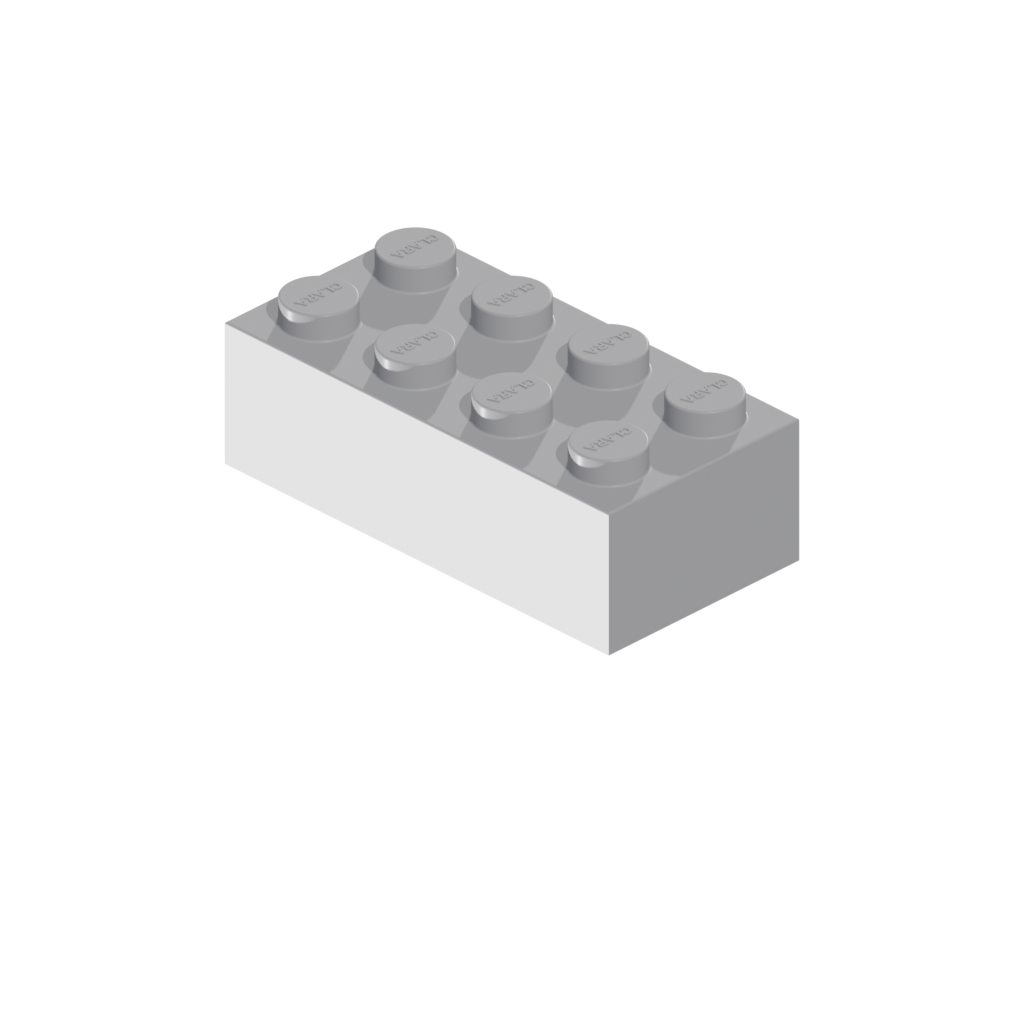
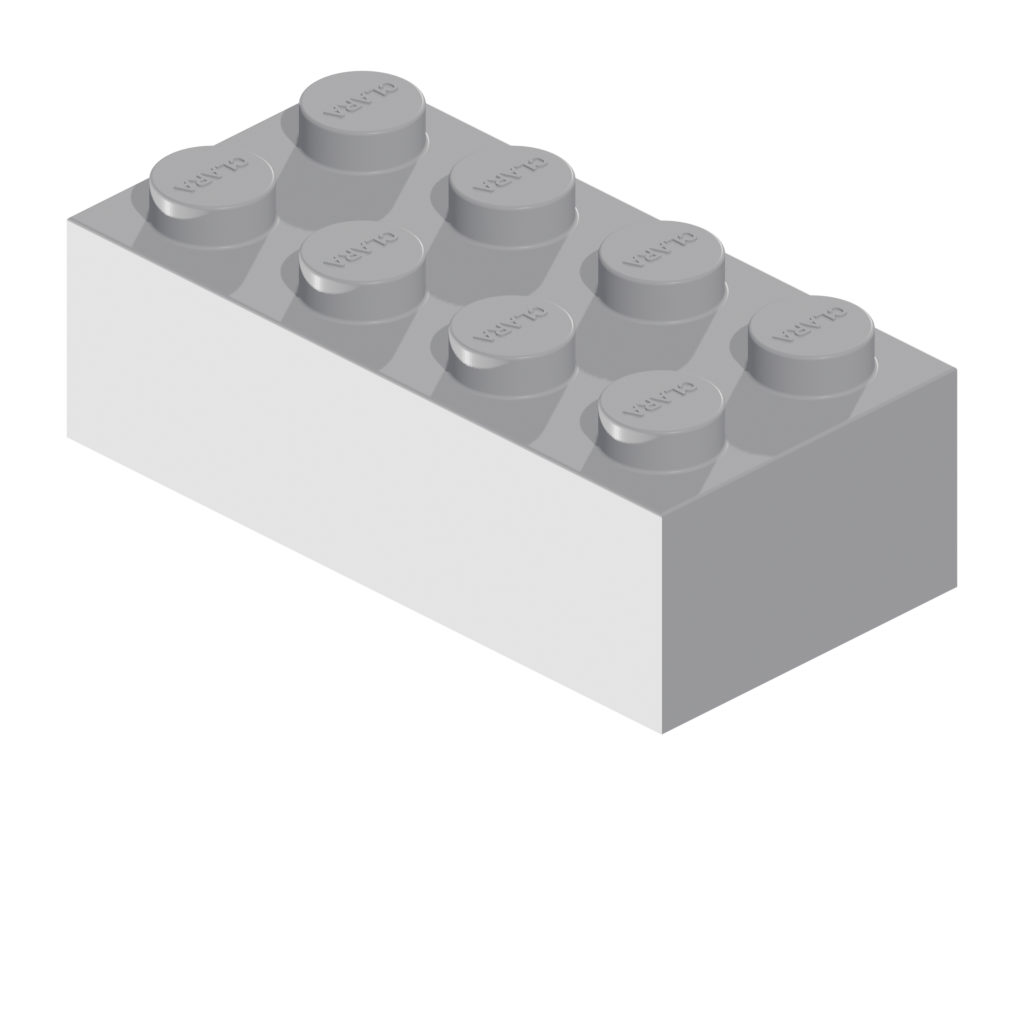
[C] Auto-fit camera to object bounds, eliminate whitespace in renders
ortho_scale now computed per-frame from projected bounding box instead
of hardcoded 60mm. Bricks fill the frame with 15% padding regardless
of size. Regenerated all README images.

Changed region(s): [[0.0625, 0.0625, 0.9375, 0.7188]]

diff --git a/render_preview.py b/render_preview.py
@@ -16,6 +16,7 @@ Output: 4 PNG files in output_dir:
 
 import bpy
 import math
+import mathutils
 import os
 import sys
 
@@ -152,7 +153,7 @@ def setup_camera():
     """
     cam_data = bpy.data.cameras.new(name="RenderCam")
     cam_data.type = "ORTHO"
-    cam_data.ortho_scale = 60  # covers ~60mm width — enough for a 2x4
+    # ortho_scale set per-frame by fit_ortho_to_object()
     cam_obj = bpy.data.objects.new("RenderCam", cam_data)
     bpy.context.scene.collection.objects.link(cam_obj)
     bpy.context.scene.camera = cam_obj
@@ -202,6 +203,37 @@ def setup_render_settings():
     scene.render.image_settings.color_mode = "RGBA"
 
 
+ORTHO_PADDING = 1.15  # 15% padding around the object
+
+
+def fit_ortho_to_object(cam_obj, model_obj):
+    """
+    Command, specific. Set ortho_scale so the object fills the frame.
+
+    Projects all 8 bbox corners into camera space and sets ortho_scale
+    to the larger of the projected width/height (plus padding).
+
+    Args:
+        cam_obj: Blender camera object (already positioned + constrained).
+        model_obj: The mesh object to fit.
+    """
+    # Force constraint evaluation so camera matrix is up to date
+    bpy.context.view_layer.update()
+
+    cam_matrix_inv = cam_obj.matrix_world.inverted()
+    bbox_world = [model_obj.matrix_world @ mathutils.Vector(c)
+                  for c in model_obj.bound_box]
+    bbox_cam = [cam_matrix_inv @ v for v in bbox_world]
+
+    # In camera space: X = right, Y = up, Z = into camera
+    xs = [v.x for v in bbox_cam]
+    ys = [v.y for v in bbox_cam]
+    span_x = max(xs) - min(xs)
+    span_y = max(ys) - min(ys)
+
+    cam_obj.data.ortho_scale = max(span_x, span_y) * ORTHO_PADDING
+
+
 # ── Main ─────────────────────────────────────────────────────────────────────
 
 def main():
@@ -233,6 +265,7 @@ def main():
     # Render each angle
     for name, azimuth, elevation in CAMERA_ANGLES:
         position_camera(cam_obj, azimuth, elevation, CAMERA_DISTANCE)
+        fit_ortho_to_object(cam_obj, model_obj)
         output_path = os.path.join(OUTPUT_DIR, f"{name}.png")
         bpy.context.scene.render.filepath = output_path
         bpy.ops.render.render(write_still=True)
